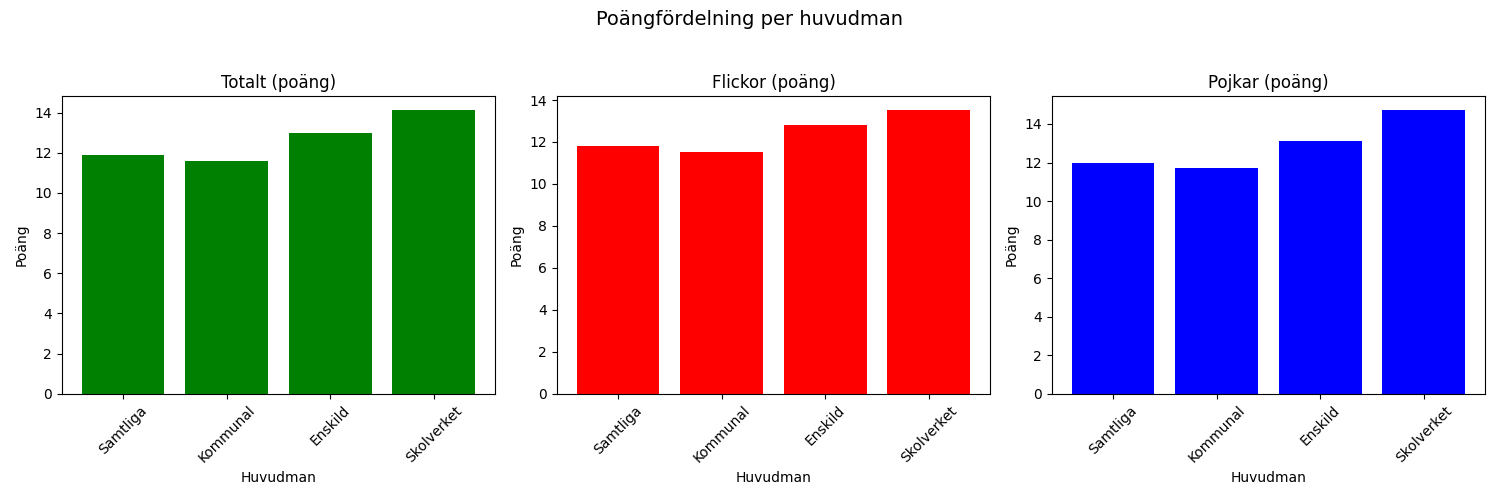
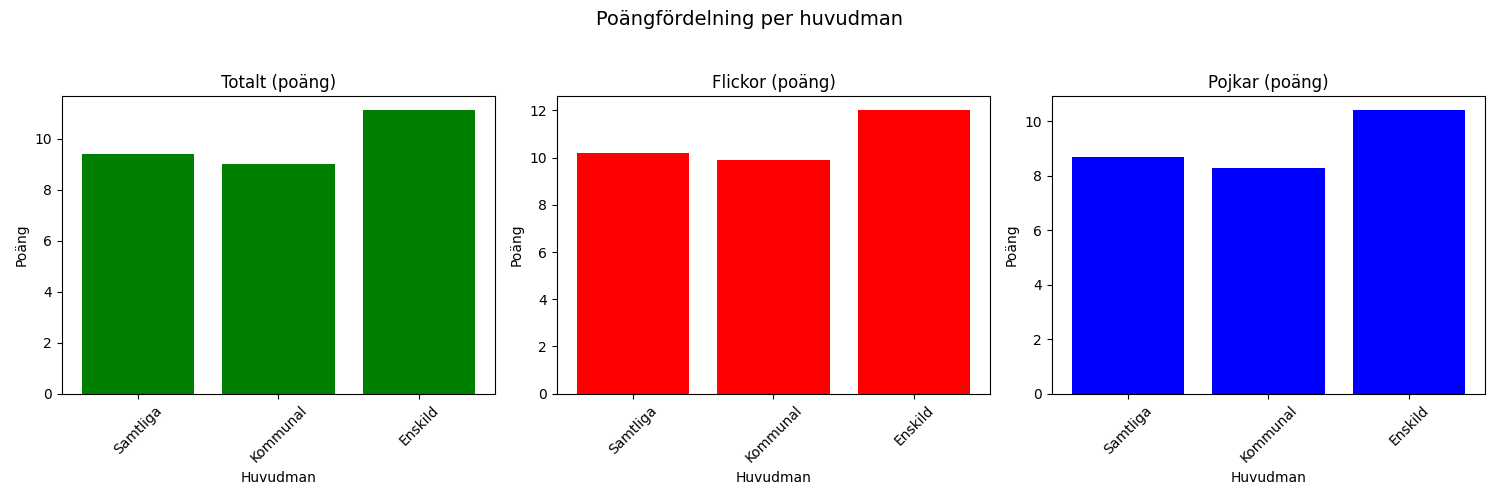
Hade missat att det skulle vara för varje ämne hade bara matematik, fick lägga till inläsning och hantering av alla ämnen, kunna spara data korrekt till dictionary, generera individuella grafer för varje ämne, skapa subplot grafer med rätt format samt spara alla i visualiseringar

diff --git a/main.py b/main.py
@@ -1,74 +1,86 @@
 import pandas as pd  # Importerar pandas-biblioteket för att hantera och bearbeta data
 import matplotlib.pyplot as plt #Importerar matplotlib för att kunna skapa graferna
-
+import os
 
 # Läs in Excel-filen som innehåller statistik för nationella prov
 file_path = "riket2023_åk9_np.xlsx"
 
-# Läser in ett specifikt ark (exempel: Matematik) från Excel-filen
-# Skippar de första 6 raderna eftersom de innehåller metadata och rubriker
-df = pd.read_excel(file_path, sheet_name="Matematik", skiprows=6, header=0)
+# Lista över ämnen att läsa in
+subjects = ["Engelska", "Matematik", "Svenska", "Svenska som andraspråk"]
+dataframes = {}  # Dictionary för att spara varje ämnes data
 
-# Sätter nya kolumnnamn för att matcha uppgiften och göra tabellen mer läsbar
-df.columns = ["Plats", "Huvudman", "Totalt (A-F)", "Flickor (A-F)", "Pojkar (A-F)", 
-              "Totalt (A-E)", "Flickor (A-E)", "Pojkar (A-E)", 
-              "Totalt (poäng)", "Flickor (poäng)", "Pojkar (poäng)"]
+# Loopar genom varje ämne och läser in datan
+for subject in subjects:
+    df = pd.read_excel(file_path, sheet_name=subject, skiprows=6, header=0)
 
-# Tar bort rader som saknar data i kolumnerna Plats och Huvudman
-# Detta förhindrar att onödiga tomma rader skrivs ut
-df = df.dropna(subset=["Plats", "Huvudman"])
+    # Sätter nya kolumnnamn för att matcha uppgiften och göra tabellen mer läsbar
+    df.columns = ["Plats", "Huvudman", "Totalt (A-F)", "Flickor (A-F)", "Pojkar (A-F)", 
+                  "Totalt (A-E)", "Flickor (A-E)", "Pojkar (A-E)", 
+                  "Totalt (poäng)", "Flickor (poäng)", "Pojkar (poäng)"]
 
-# Återställer indexet efter att rader har tagits bort för att hålla en ren tabell
-df.reset_index(drop=True, inplace=True)
+    # Tar bort rader som saknar data i kolumnerna Plats och Huvudman
+    df = df.dropna(subset=["Plats", "Huvudman"])
 
-# Skriver ut de första raderna av data för att verifiera att allt ser korrekt ut
-print(df)
+    # Återställer index efter att rader har tagits bort för att hålla en ren tabell
+    df.reset_index(drop=True, inplace=True)
+    dataframes[subject] = df
 
-# Sett till att Huvudman är strängar och att Totalt (poäng) är numeriskt
-df["Huvudman"] = df["Huvudman"].astype(str)
+# Skriver ut de första raderna av varje ämne
+for subject, df in dataframes.items():
+    print(f"Förhandsgranskning av {subject}:")
+    print(df.head())  # Skriver ut de första 5 raderna för varje ämne
 
-# Se till att poängkolumnerna är numeriska
-for category in ["Totalt (poäng)", "Flickor (poäng)", "Pojkar (poäng)"]:
-    df[category] = pd.to_numeric(df[category], errors="coerce")
+# Loopar genom alla ämnen och säkerställer att rätt datatyper används
+for subject, df in dataframes.items():
+    df["Huvudman"] = df["Huvudman"].astype(str)  # Konvertera "Huvudman" till text
+
+    for category in ["Totalt (poäng)", "Flickor (poäng)", "Pojkar (poäng)"]:
+        df[category] = pd.to_numeric(df[category], errors="coerce")  # Konvertera till numeriskt format
 
 # Skapat en stapelgraf för totala poäng per huvudman
-plt.figure(figsize=(8, 5))  # Storlek på diagrammet
-plt.bar(df["Huvudman"], df["Totalt (poäng)"], color=['blue', 'green', 'red', 'purple'])
+# Se till att mappen "visualiseringar" finns
+os.makedirs("visualiseringar", exist_ok=True)
 
-# Lägg till etiketter och titel
-plt.xlabel("Huvudman")
-plt.ylabel("Totalt (poäng)")
-plt.title("Totala poäng per huvudman")
+# Skapar en stapelgraf för varje ämne
+for subject, df in dataframes.items():
+    plt.figure(figsize=(8, 5))
+    plt.bar(df["Huvudman"], df["Totalt (poäng)"], color=['blue', 'green', 'red', 'purple'])
 
-# Spara grafen i undermappen visualiseringar
-plt.savefig("visualiseringar/totala_poäng.png")
+    # Lägg till etiketter och titel
+    plt.xlabel("Huvudman")
+    plt.ylabel("Totalt (poäng)")
+    plt.title(f"Totala poäng per huvudman - {subject}")
 
-# Visa grafen
-plt.show()
+    # Spara grafen i undermappen visualiseringar
+    plt.savefig(f"visualiseringar/totala_poäng_{subject}.png")
 
-# Skapatt en figur med tre subplots (1 rad, 3 kolumner)
-fig, axes = plt.subplots(1, 3, figsize=(15, 5))
+    # Visa grafen
+    plt.show()
 
-# Lista med kategorier och färger
-categories = ["Totalt (poäng)", "Flickor (poäng)", "Pojkar (poäng)"]
-colors = ["green", "red", "blue"]
+# Skapar en subplot-graf för varje ämne
+for subject, df in dataframes.items():
+    fig, axes = plt.subplots(1, 3, figsize=(15, 5))
 
-# Loopa genom kategorierna och ritar upp stapeldiagramt
-for i, category in enumerate(categories): # Foorloop
-    axes[i].bar(df["Huvudman"], df[category], color=colors[i])  # Stapeldiagram
-    axes[i].set_title(category)  # Titel för subplot
-    axes[i].set_xlabel("Huvudman")  # X-axel etikett
-    axes[i].set_ylabel("Poäng")  # Y-axel etikett
-    axes[i].tick_params(axis="x", rotation=45)  # Rotera x-etiketter för bättre läsbarhet //gpt tips
+    # Lista med kategorier och färger
+    categories = ["Totalt (poäng)", "Flickor (poäng)", "Pojkar (poäng)"]
+    colors = ["green", "red", "blue"]
 
-# Lagt till en huvudtitel för hela figuren 
-plt.suptitle("Poängfördelning per huvudman", fontsize=14)
+    # Loopa genom kategorierna och rita upp stapeldiagram
+    for i, category in enumerate(categories):
+        axes[i].bar(df["Huvudman"], df[category], color=colors[i])  # Stapeldiagram
+        axes[i].set_title(f"{category} - {subject}")  # Titel för subplot
+        axes[i].set_xlabel("Huvudman")  # X-axel etikett
+        axes[i].set_ylabel("Poäng")  # Y-axel etikett
+        axes[i].tick_params(axis="x", rotation=45)  # Rotera x-etiketter för bättre läsbarhet
 
-# Justerat layout så att allt ser bra ut
-plt.tight_layout(rect=[0, 0, 1, 0.95])
+    # Lagt till en huvudtitel för hela figuren 
+    plt.suptitle(f"Poängfördelning per huvudman - {subject}", fontsize=14)
 
-# Sparat figuren i visualiseringsmappen
-plt.savefig("visualiseringar/poängfördelning.png")
+    # Justerat layout så att allt ser bra ut
+    plt.tight_layout(rect=[0, 0, 1, 0.95])
 
-# Visar diagrammet
-plt.show()
+    # Sparat figuren i visualiseringsmappen
+    plt.savefig(f"visualiseringar/poängfördelning_{subject}.png")
+
+    # Visar diagrammet
+    plt.show()
